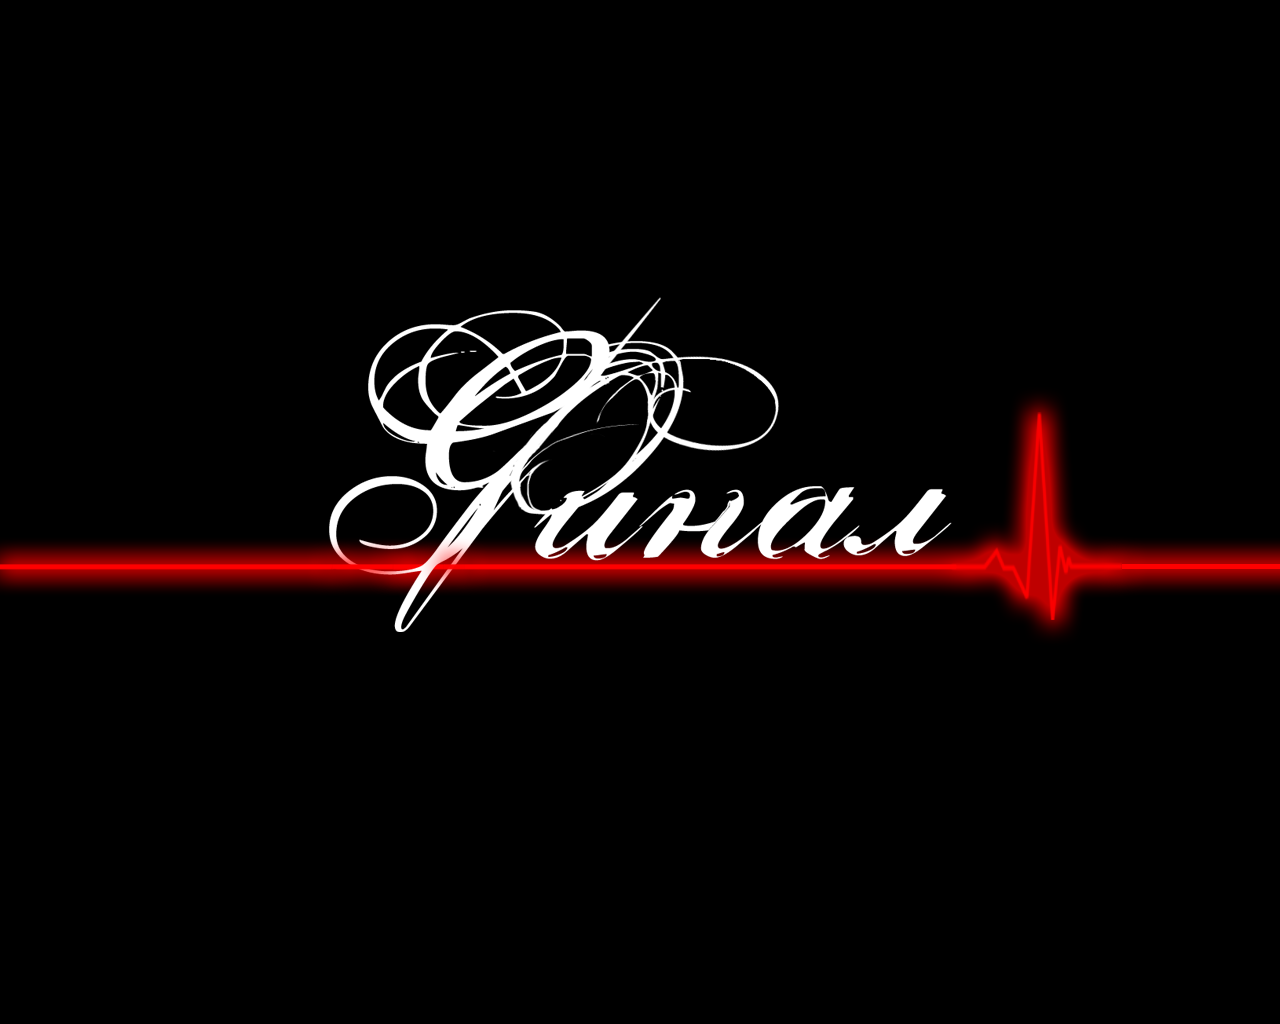
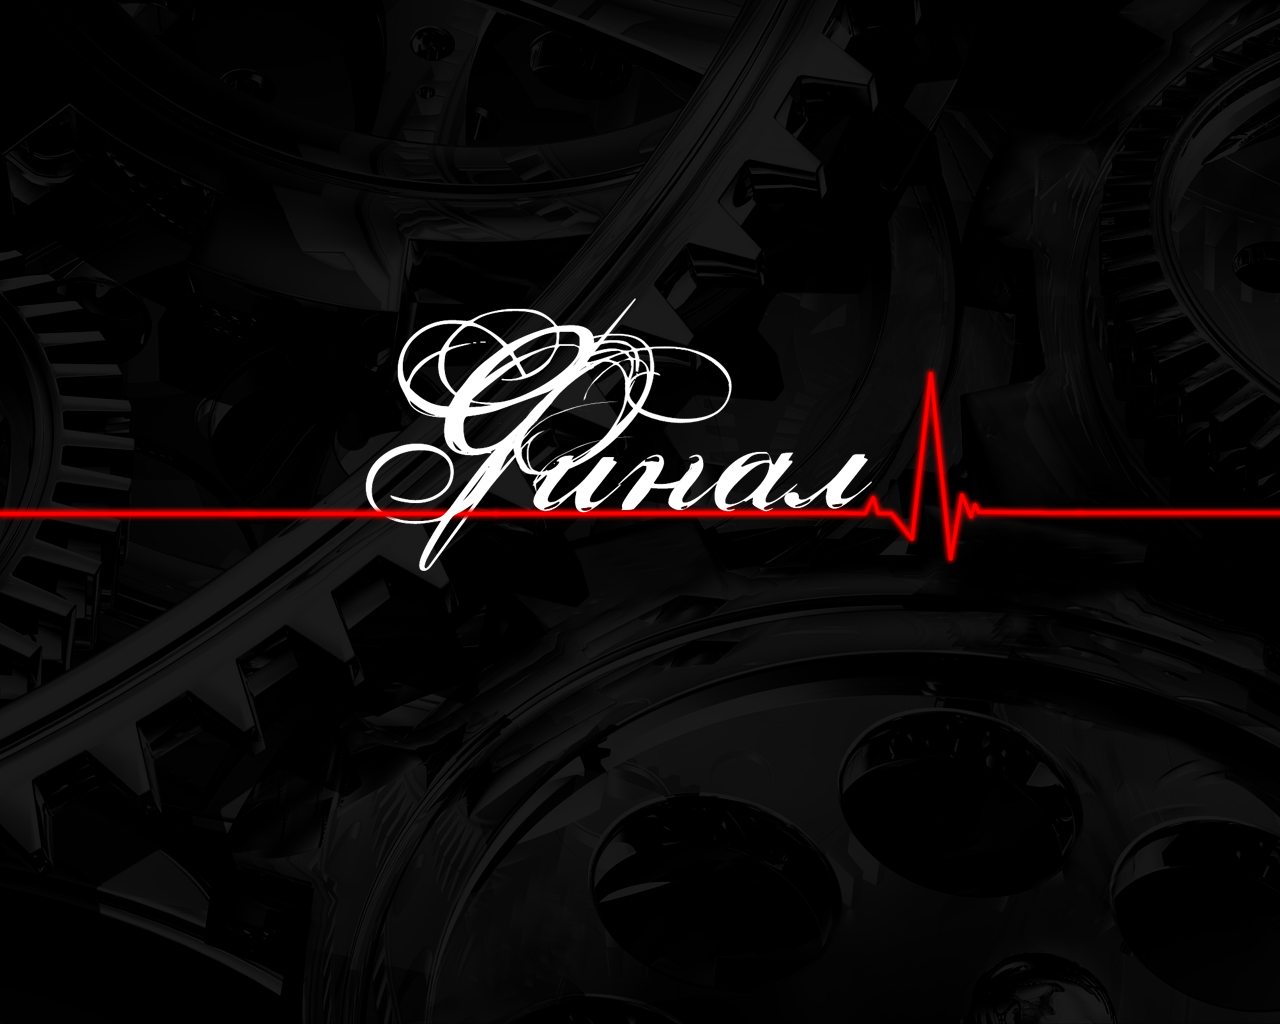
Pre-final commit before beta-release
- Changed pictures for splash screens;
- Fixed lightning system (issue #18);
- Changed structure of audiofiles: all sounds splitted on two groups -
music and SFX;
- On settings: 'Turn off music' and 'Turn off SFX' working correctly
(issue #9);
- Some changes on resize function: pictures in splash screen is
proportional now.

diff --git a/src/Game/MainForm.cpp b/src/Game/MainForm.cpp
@@ -204,6 +204,7 @@ void __fastcall TF::tmrPulseAnimationTimer(TObject *) {
 // ---------------------------------------------------------------------------
 
 void __fastcall TF::btnMechStartClick(TObject *) {
+	AnimationFrame = 0;
 	SpeedOfRotation = (ModeOfGame == mRoundNoQuestions) ? 75 : _StartRotaingSpeed;
 	if (RoundOfGame == -1 || FinalRoundOfGame > 0) {
 		SpeedOfRotation = 35;
@@ -211,6 +212,7 @@ void __fastcall TF::btnMechStartClick(TObject *) {
 	tmrRotator->Interval = SpeedOfRotation;
 	MechanizmState = Spining;
 	const shared_ptr<GfxCache> gfx = GfxCache::Instance();
+	LightAllHatchesWith(lcBase);
 	imgPlace->Picture->Assign(gfx->PlaceRedMechActive.get());
 	tmrRotator->Enabled = true;
 	PlaySFX(rr_mexopen);
@@ -240,12 +242,6 @@ void __fastcall TF::btnMechStopClick(TObject *) {
 		imgPlace->Picture->Assign(gfx->Place.get());
 	}
 
-	if (FinalRoundOfGame > 0) {
-		SwitchOffMech_WhiteLights();
-		CanChoose = 1;
-		OpenRandomHatches(FinalRoundOfGame + 2, ModeOfGame);
-	}
-
 	bool b2 = RoundOfGame >= 1 && ModeOfGame != mRoundNoQuestions;
 	bool b3 = !b2 && ModeOfGame == mRoundNoQuestions;
 	if (b2 || b3) {
@@ -254,7 +250,7 @@ void __fastcall TF::btnMechStopClick(TObject *) {
 	// ------------------
 
 	if (RoundOfGame == 0) {
-		ZeroRoundSpin();
+		ZeroRoundRotating();
 	} else {
 		if (ModeOfGame != mRoundNoQuestions) {
 			OpenRandomHatches(RoundOfGame, ModeOfGame);
@@ -265,6 +261,12 @@ void __fastcall TF::btnMechStopClick(TObject *) {
 			ModeOfGame = mRoundSuddenDeath;
 		}
 		tmrWaiting->Enabled = true;
+	}
+
+	if (FinalRoundOfGame > 0) {
+		SwitchOffMech_WhiteLights();
+		CanChoose = 1;
+		OpenRandomHatches(FinalRoundOfGame + 2, ModeOfGame);
 	}
 
 	imgLiver->Enabled = false;
@@ -286,29 +288,29 @@ void __fastcall TF::btnExitClick(TObject *) {
 
 // ---------------------------------------------------------------------------
 void __fastcall TF::tmrRotatorTimer(TObject *) {
-	if (ModeOfGame == mRoundNoQuestions) {
-		SwitchesLights();
-	} else {
+	if (FinalRoundOfGame == 0) {
+		if (ModeOfGame == mRoundNoQuestions) {
+			SwitchesLights();
+		} else {
 		switch (RoundOfGame) {
-		case -1: ZeroRoundSpin();
-			break;
-		case 0: ShiftHatches();
-			break;
-		case 1: DoRotating(First);
-			break;
-		case 2: DoRotating(Second);
-			break;
-		case 3: DoRotating(Third);
-			break;
-		case 4: DoRotating(Fourth);
-			break;
-		case 5: ZeroRoundSpin();
-			break;
+			case -1: ZeroRoundSpin();
+				break;
+			case 0: ShiftHatches();
+				break;
+			case 1: DoRotating(First);
+				break;
+			case 2: DoRotating(Second);
+				break;
+			case 3: DoRotating(Third);
+				break;
+			case 4: DoRotating(Fourth);
+				break;
+			}
 		}
 	}
-
-	if (FinalRoundOfGame > 0) {
+	else {
 		ZeroRoundSpin();
+
 	}
 
 	if (RoundOfGame < 1) {
@@ -325,7 +327,7 @@ void __fastcall TF::tmrRotatorTimer(TObject *) {
 		{
 			tmrRotator->Enabled = false; // вырубаем таймер
 			if (RoundOfGame == 0) {
-				ChangeHatchesLight(lcBlue, lcWhite);
+				ChangeHatchesLight(lcWhite, lcBlue);
 				if (TempRoundOfGame != 0) {
 					RoundOfGame = TempRoundOfGame;
 				} else {
@@ -540,7 +542,7 @@ void __fastcall TF::tmrWaitingTimer(TObject *) {
 	case mRoundAnswerLocked: // проверка ответа
 		if (Wait == 2) {
 			CanAnswer = 0;
-			StopSound(rr_20sec);
+			StopSFX(rr_20sec);
 			if (answer == RandomPlace) {
 				imgQuestion->Picture->Assign(gfx->quest_correct.get());
 				FlashBackground(clLime);
@@ -578,9 +580,9 @@ void __fastcall TF::tmrWaitingTimer(TObject *) {
 		}
 		if (Wait == 8) {
 			if (answer != RandomPlace) {
-				PlaySFX(rr_bg1);
+				PlayMusic(rr_bg1);
 			} else {
-				PlaySFX((rrSoundEvent)((int)rr_bg1 + (1 + random(4))));
+				PlayMusic((rrSoundEvent)((int)rr_bg1 + (1 + random(4))));
 			}
 			if (!Settings->HostMode) {
 				tmrWaiting->Enabled = true;
@@ -703,7 +705,7 @@ void __fastcall TF::tmrWaitingTimer(TObject *) {
 					Wait = 4;
 				}
 				ModeOfGame = mRoundQuestion;
-				PlaySFX((rrSoundEvent)(rr_bg1 + 3 + random(2)));
+				PlayMusic((rrSoundEvent)(rr_bg1 + 3 + random(2)));
 			}
 			break;
 		}
@@ -783,7 +785,7 @@ void __fastcall TF::tmrWaitingTimer(TObject *) {
 				imgPlayer[chooseplayer - 1]->Visible = false;
 			}
 			if (Wait == (WaitForFate + 7)) {
-				PlaySFX(rr_bg1);
+				PlayMusic(rr_bg1);
 				if (!Settings->HostMode) {
 					tmrWaiting->Enabled = true;
 					Wait = 0;
@@ -797,7 +799,7 @@ void __fastcall TF::tmrWaitingTimer(TObject *) {
 	case mRoundEndOfCurrRound: {
 			if (Wait == 10) {
 				PlaySFX(rr_endround);
-				ChangeHatchesLight(lcBlue, lcBlack);
+				ChangeHatchesLight(lcBlack, lcBlue);
 				Wait = 0;
 				RoundOfGame++ ;
 				if (RoundOfGame != 5) {
@@ -863,7 +865,7 @@ void __fastcall TF::tmrWaitingTimer(TObject *) {
 				switchonquestion();
 			}
 			if (Wait == 12) {
-				PlaySFX(rr_bg4);
+				PlayMusic(rr_bg4);
 				if (!Settings->HostMode) {
 					Wait = 0;
 					tmrWaiting->Enabled = true;
@@ -1302,7 +1304,7 @@ void __fastcall TF::tmrWaitingFinalTimer(TObject *) {
 				LabelMoney->Visible = true;
 			}
 			if (Wait == 8) {
-				PlaySFX(rr_question);
+				PlayMusic(rr_question);
 				TimeOfQuestion = 10;
 				load_final_question();
 				lblTimer->Caption = IntToStr(TimeOfQuestion);
@@ -1328,7 +1330,7 @@ void __fastcall TF::tmrWaitingFinalTimer(TObject *) {
 		} break;
 	case mFinalAnswerLocked: { // игрок даёт ответ
 			edFinalAnswer->Visible = false;
-			StopSound(rr_20sec);
+			StopSFX(rr_20sec);
 			if (CheckAnswerAtFinalRound(edFinalAnswer->Text, NumberOfQuestion)) {
 				PlaySFX(rr_true);
 				lblRightAnswer->Top = imgQuestion->Top + 160;
@@ -1372,7 +1374,7 @@ void __fastcall TF::tmrWaitingFinalTimer(TObject *) {
 				imgChoosenAnswer->Visible = true;
 				imgChAnsLeft->Visible = true;
 				imgChAnsRight->Visible = true;
-				ChangeHatchesLight(lcRed, lcWhite);
+				ChangeHatchesLight(lcWhite, lcRed);
 				ModeOfGame = mFinalMomentOfTruth;
 				WaitForFate = 10 + random(11);
 				imgQuestion->Picture->Assign(gfx->quest_incorrect.get());
@@ -1382,7 +1384,7 @@ void __fastcall TF::tmrWaitingFinalTimer(TObject *) {
 		} break;
 	case mFinalGiveMoney: {
 			if (Wait == 8) {
-				PlaySFX(rr_bg3);
+				PlayMusic(rr_bg3);
 				MoneyTransferMode = 0;
 				tmrMoney->Enabled = true;
 			}
@@ -1511,7 +1513,7 @@ void __fastcall TF::tmrWaitingFinalTimer(TObject *) {
 				} else {
 					LightAllHatchesWith(lcBase);
 					Wait = 10;
-					PlaySFX(rr_bg5);
+					PlayMusic(rr_bg5);
 					ModeOfGame = mFinalStartNewRound;
 				}
 			}
@@ -1524,9 +1526,9 @@ void __fastcall TF::tmrWaitingFinalTimer(TObject *) {
 	case mFinalPlayerFall:
 	case mFinalEndOfGame: {
 			if (Wait == 30 && ModeOfGame == mFinalPlayerFall) {
-				ChangeHatchesLight(lcRed, lcBlack);
+				ChangeHatchesLight(lcBlack, lcRed);
 			} else if (Wait == 8 && ModeOfGame == mFinalEndOfGame) {
-				ChangeHatchesLight(lcBlue, lcRed);
+				ChangeHatchesLight(lcRed, lcBlue);
 			}
 			imgTotalPrize->Top = imgBorder->Top + 30;
 			LabelMoney->Top = imgTotalPrize->Top + 10;
@@ -1685,6 +1687,8 @@ void __fastcall TF::FormShow(TObject *) {
 	LabelQuestion->Top = imgQuestion->Top + 47;
 	LabelQuestion->Left = imgQuestion->Left + 149;
 
+//	lblTimer->Parent = imgTicker;
+//	lblTimer->BringToFront();
 	lblTimer->Top = imgTicker->Top + 31;
 	lblTimer->Left = imgTicker->Left + 17;
 
@@ -1725,6 +1729,15 @@ void __fastcall TF::FormShow(TObject *) {
 	for (int i = 0; i < COUNT_PLAYERS; i++) {
 		lblPlayer[i]->Caption = TSettings::Instance()->PlayerNames[i];
 	}
+
+	if (TSettings::Instance()->SoundEnabled) {
+		SetVolumeSFX(TSettings::Instance()->SoundVolume / 100.);
+	}
+	else { SetVolumeSFX(0); }
+	if (TSettings::Instance()->MusicEnabled) {
+		SetVolumeMusic(TSettings::Instance()->MusicVolume / 100.);
+	}
+	else { SetVolumeMusic(0); }
 
 #ifdef _DEBUG
 	SetQuestionsMaximum(1, 1, 1, 1);
@@ -1845,8 +1858,6 @@ void __fastcall TF::FormResize(TObject *) {
 	imgLiver->Top = 145;
 	imgLiver->Picture->Assign(gfx->GetLiverFrame(0));
 
-	imgSplash->Left = int((F->ClientWidth - imgSplash->Width) / 2);
-	imgSplash->Top = int((F->ClientHeight - imgSplash->Height) / 2);
 	imgSplash->BringToFront();
 
 	TPoint offset((imgHatch[0]->Width - imgPlayer[0]->Width) / 2,
@@ -1856,9 +1867,17 @@ void __fastcall TF::FormResize(TObject *) {
 		imgPlayer[i]->Left = imgHatch[i + 1]->Left + offset.x;
 	}
 
+	imgSplash->AutoSize = true;
+	imgSplash->AutoSize = false;
+
 	imgSplash->Center = true;
-	imgSplash->Width = (F->Width > F->Height) ? F->Width : F->Height;
-	imgSplash->Height = imgSplash->Width;
+	// коэффициент ресайза картинки splash-скрина раундов без нарушения пропорций
+	float propscalewidth = F->Width / (float)imgSplash->Width;
+	// непосредственный ресайз
+	imgSplash->Width = F->Width;
+	imgSplash->Height = (int)(imgSplash->Height * propscalewidth);
+	imgSplash->Left = int((F->Width - imgSplash->Width) / 2);
+	imgSplash->Top = int((F->Height - imgSplash->Height) / 2);
 }
 
 // ---------------------------------------------------------------------------
@@ -2221,7 +2240,8 @@ void TF::Choosen_Answer_Change_Position(int mode) {
 void __fastcall TF::FormHide(TObject *) {
 	tmrPulseAnimation->Enabled = false;
 	SaveFormPosition(F);
-	StopSoundAll();
+	StopAllSFX();
+	StopAllMusic();
 }
 // ---------------------------------------------------------------------------
 

diff --git a/src/Game/settings_impl.cpp b/src/Game/settings_impl.cpp
@@ -42,9 +42,10 @@ void TSettings::LoadFromFile(String filename) {
     FormsTop = ini->ReadInteger("Global", "Top", 0);
     SoundEnabled = ini->ReadBool("Global", "Sound", false);
     SoundVolume = ini->ReadInteger("Global", "SoundVolume", 100);
-    SetVolumeAll(SoundVolume/100.);
+	SetVolumeSFX(SoundVolume/100.);
     MusicEnabled = ini->ReadBool("Global", "Music", false);
-    MusicVolume = ini->ReadInteger("Global", "MusicVolume", 100);
+	MusicVolume = ini->ReadInteger("Global", "MusicVolume", 100);
+	SetVolumeMusic(MusicVolume/100.);
     HostMode = ini->ReadBool("Global", "HostMode", false);
 
     MinWidth = 1024;

diff --git a/src/Game/audio.h b/src/Game/audio.h
@@ -53,13 +53,19 @@ typedef enum {
 
 void init_audio(HWND hwnd);
 
-void SetVolumeAll(float volume);
+void SetVolumeMusic(float volume);
+void SetVolumeSFX(float volume);
 
 void PlaySound(rrSoundEvent sound_event, int startPosInSeconds);
 
+void PlayMusic(rrSoundEvent);
+void PlayMusic(rrSoundEvent, int startPos);
 void PlaySFX(rrSoundEvent);
 void PlaySFX(rrSoundEvent, int startPos);
 
-void StopSound(rrSoundEvent sound_event);
-void StopSoundAll();
+void StopMusic(rrSoundEvent sound_event);
+void StopSFX(rrSoundEvent sound_event);
+
+void StopAllMusic();
+void StopAllSFX();
 #endif

diff --git a/src/Game/Hatches.h b/src/Game/Hatches.h
@@ -43,6 +43,7 @@ void ShiftHatches();
 
 void DoRotating(const RoundEnum round);
 void ZeroRoundSpin();
+void ZeroRoundRotating();
 void OpenRandomHatches(const int OpenHatches, int ModeOfGame);
 void UpdateHatches();
 void choosingplayer();
